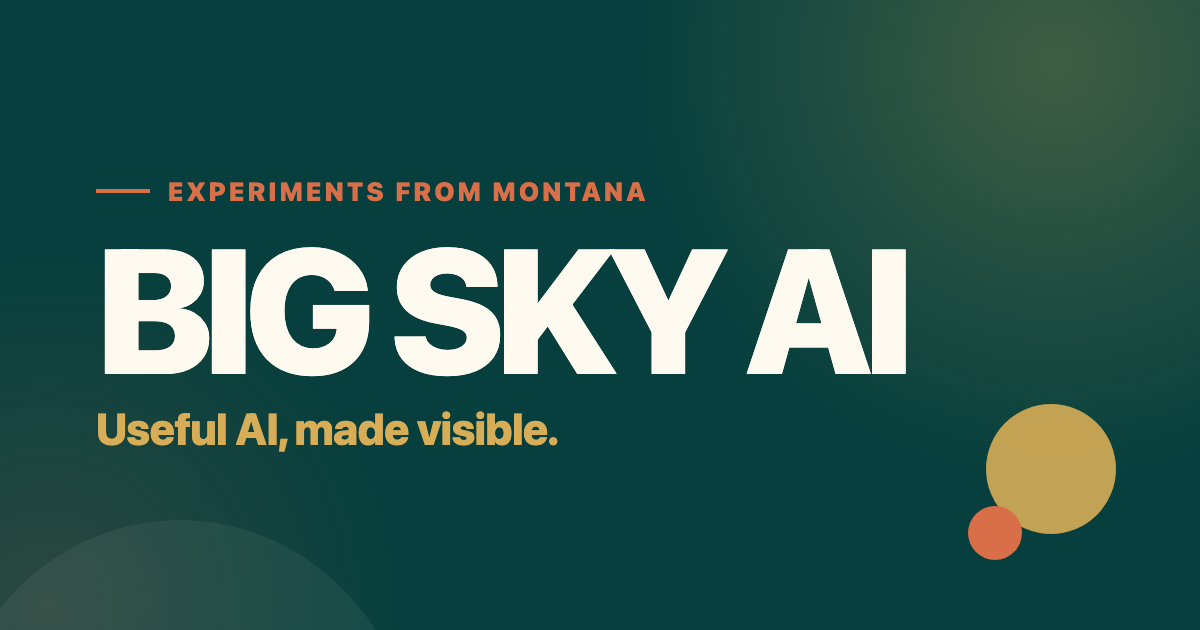
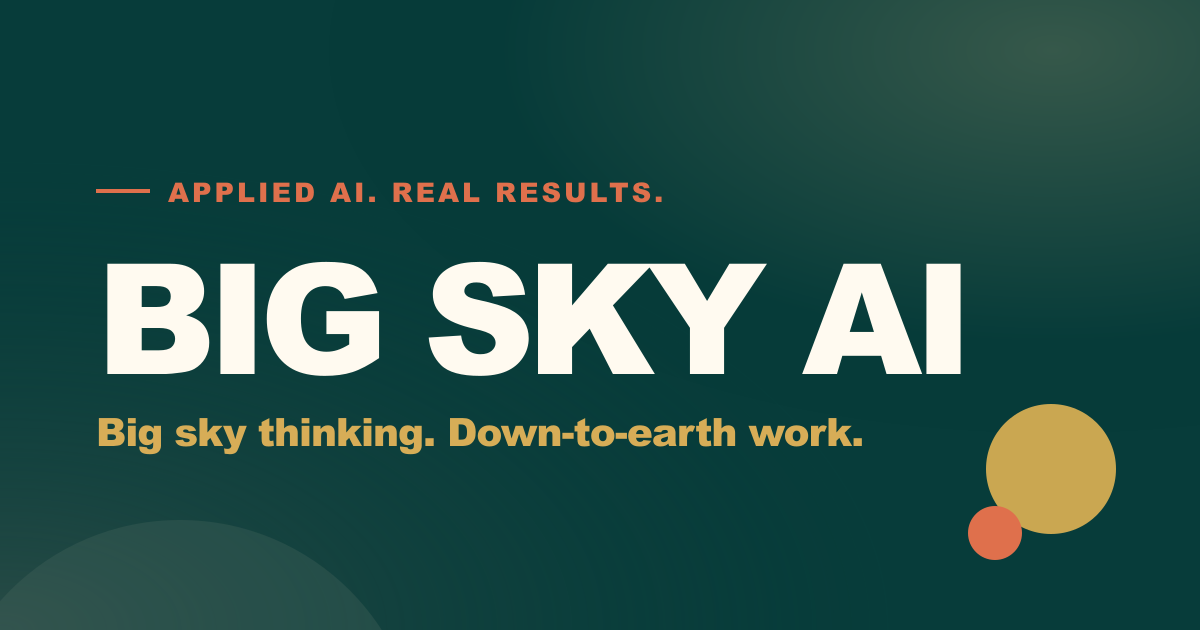
Apply approved Big Sky AI tagline across public site (#38)

diff --git a/index.html b/index.html
@@ -3,9 +3,9 @@
 <head>
   <meta charset="utf-8">
   <meta name="viewport" content="width=device-width, initial-scale=1">
-  <meta name="description" content="Big Sky AI builds and cares for practical AI systems for small businesses and families — AI consulting from Bozeman, Montana. AI that shows its work.">
+  <meta name="description" content="Big Sky AI builds and cares for practical AI systems for small businesses and families — AI consulting from Bozeman, Montana. Big sky thinking. Down-to-earth work.">
   <meta property="og:title" content="Big Sky AI">
-  <meta property="og:description" content="Practical AI systems for small businesses and families — AI consulting from Bozeman, Montana. AI that shows its work.">
+  <meta property="og:description" content="Practical AI systems for small businesses and families — AI consulting from Bozeman, Montana. Big sky thinking. Down-to-earth work.">
   <meta property="og:type" content="website">
   <meta property="og:url" content="https://bigskyai.ai/">
   <meta property="og:image" content="https://bigskyai.ai/assets/bigskyai-og.png">
@@ -23,7 +23,7 @@
     "url": "https://bigskyai.ai/",
     "email": "info@bigskyai.ai",
     "description": "Practical AI consulting from Bozeman, Montana: AI workflow audits, fixed-scope builds, and ongoing care of AI systems for small businesses and families.",
-    "slogan": "AI that shows its work.",
+    "slogan": "Big sky thinking. Down-to-earth work.",
     "areaServed": ["Bozeman", "Gallatin Valley", "Montana"],
     "address": {
       "@type": "PostalAddress",
@@ -457,6 +457,11 @@
         width: min(100% - 28px, 1120px);
       }
 
+      header {
+        flex-wrap: wrap;
+        gap: 4px 16px;
+      }
+
       .project {
         min-height: 340px;
         padding: 26px;
@@ -497,16 +502,16 @@
 <body>
   <header>
     <a class="wordmark" href="./">BIG SKY AI</a>
-    <span class="header-note">AI that shows its work.</span>
+    <span class="header-note">Big sky thinking. Down-to-earth work.</span>
   </header>
 
   <main>
     <section class="hero">
       <div>
-        <p class="eyebrow">Public work</p>
-        <h1>Useful AI, made visible.</h1>
+        <p class="eyebrow">Applied AI. Real results.</p>
+        <h1>Big sky thinking. Down-to-earth work.</h1>
       </div>
-      <p class="hero-copy">Putting Artificial Intelligence to work in practical ways that actually help people.</p>
+      <p class="hero-copy">Useful AI for small businesses and families, built in Bozeman and kept running every day.</p>
     </section>
 
     <section class="projects" aria-label="Big Sky AI projects">

diff --git a/about/index.html b/about/index.html
@@ -467,7 +467,7 @@
 
     <section class="closer" aria-label="Work with Big Sky AI">
       <div>
-        <h2>&ldquo;AI that shows its work&rdquo; isn&rsquo;t a slogan.</h2>
+        <h2>Big sky thinking. Down-to-earth work.</h2>
         <p>It&rsquo;s a habit formed everywhere the pager was real. If your business could use that habit, start the conversation.</p>
       </div>
       <a class="contact-button" href="mailto:info@bigskyai.ai?subject=Big%20Sky%20AI%20inquiry">info@bigskyai.ai</a>
@@ -484,7 +484,7 @@
       <a href="./">About</a>
       <a href="mailto:info@bigskyai.ai">Contact</a>
     </nav>
-    <span>AI that shows its work.</span>
+    <span>Big sky thinking. Down-to-earth work.</span>
   </footer>
 
   <script data-goatcounter="https://bigskyai.goatcounter.com/count"

diff --git a/ralph/whats-new/index.html b/ralph/whats-new/index.html
@@ -132,7 +132,7 @@ on the front page is real.</p>
       <a href="../../about/">About</a>
       <a href="mailto:info@bigskyai.ai">Contact</a>
     </nav>
-    <span>Useful AI, made visible.</span>
+    <span>Big sky thinking. Down-to-earth work.</span>
   </footer>
 
   <script data-goatcounter="https://bigskyai.goatcounter.com/count"

diff --git a/ralph/how-it-works/index.html b/ralph/how-it-works/index.html
@@ -270,7 +270,7 @@
       <a href="../../about/">About</a>
       <a href="mailto:info@bigskyai.ai">Contact</a>
     </nav>
-    <span>Useful AI, made visible.</span>
+    <span>Big sky thinking. Down-to-earth work.</span>
   </footer>
 
   <script data-goatcounter="https://bigskyai.goatcounter.com/count"

diff --git a/templates/ralph-how-it-works.html b/templates/ralph-how-it-works.html
@@ -270,7 +270,7 @@
       <a href="../../about/">About</a>
       <a href="mailto:info@bigskyai.ai">Contact</a>
     </nav>
-    <span>Useful AI, made visible.</span>
+    <span>Big sky thinking. Down-to-earth work.</span>
   </footer>
 
   <script data-goatcounter="https://bigskyai.goatcounter.com/count"

diff --git a/templates/ralph-whats-new.html b/templates/ralph-whats-new.html
@@ -65,7 +65,7 @@
       <a href="../../about/">About</a>
       <a href="mailto:info@bigskyai.ai">Contact</a>
     </nav>
-    <span>Useful AI, made visible.</span>
+    <span>Big sky thinking. Down-to-earth work.</span>
   </footer>
 
   <script data-goatcounter="https://bigskyai.goatcounter.com/count"

diff --git a/ralph/index.html b/ralph/index.html
@@ -120,7 +120,7 @@
       <a href="../about/">About</a>
       <a href="mailto:info@bigskyai.ai">Contact</a>
     </nav>
-    <span>Useful AI, made visible.</span>
+    <span>Big sky thinking. Down-to-earth work.</span>
   </footer>
 
   <script data-goatcounter="https://bigskyai.goatcounter.com/count"

diff --git a/templates/ralph-landing.html b/templates/ralph-landing.html
@@ -120,7 +120,7 @@
       <a href="../about/">About</a>
       <a href="mailto:info@bigskyai.ai">Contact</a>
     </nav>
-    <span>Useful AI, made visible.</span>
+    <span>Big sky thinking. Down-to-earth work.</span>
   </footer>
 
   <script data-goatcounter="https://bigskyai.goatcounter.com/count"

diff --git a/VISION.md b/VISION.md
@@ -8,7 +8,7 @@ It owns exactly one thing: Big Sky AI's root vision - who the company serves, wh
 
 ## Receipts before claims
 
-"AI that shows its work" is a habit, not a slogan: every public claim traces to something that runs, ran, or is plainly labeled as not yet running.
+Showing the work is a habit: every public claim traces to something that runs, ran, or is plainly labeled as not yet running.
 Each showcase carries its true status - installation or demonstration - and never reads as more finished, more used, or more available than it is.
 A showcase is evidence for an offer, not the product itself, and the front page shows only work that runs for real people and the offers built on it.
 Illustrative figures are labeled illustrative, and a client's dollar amounts are never shown.
